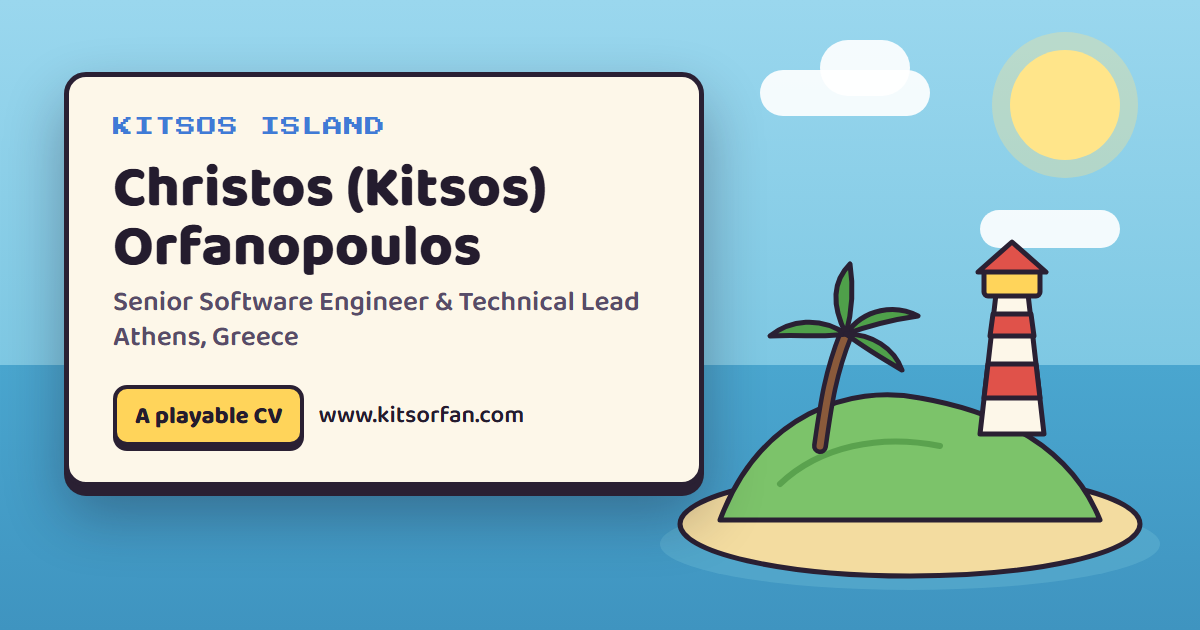
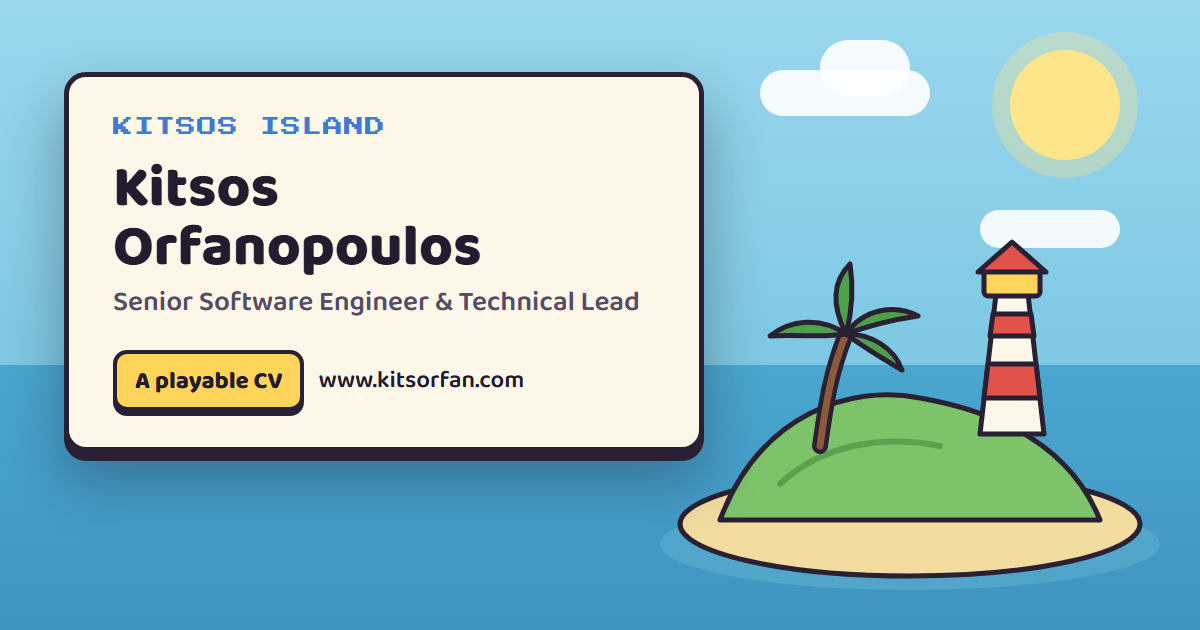
feat(cv): trim the link preview to his name and title

Changed region(s): [[0.0308, 0.5127, 0.5858, 0.8143], [0.0925, 0.2413, 0.4625, 0.3317]]

diff --git a/config/og-image.ts b/config/og-image.ts
@@ -16,7 +16,7 @@ import { mkdtempSync, readFileSync, rmSync, writeFileSync } from 'node:fs'
 import { tmpdir } from 'node:os'
 import { join } from 'node:path'
 import { fileURLToPath, pathToFileURL } from 'node:url'
-import { CV_NAME, PROFILE } from '../src/features/cv/profile.ts'
+import { NAME, PROFILE } from '../src/features/cv/profile.ts'
 import { findBrowser } from './browser.ts'
 
 const ROOT = fileURLToPath(new URL('..', import.meta.url))
@@ -96,8 +96,8 @@ h1 { margin: 22px 0 8px; font-size: 58px; line-height: 1.02; font-weight: 800; }
 ${ISLAND}
 <div class="card">
   <div class="kicker">KITSOS ISLAND</div>
-  <h1>${esc(CV_NAME)}</h1>
-  <p class="title">${esc(PROFILE.title)}<br>${esc(PROFILE.location)}</p>
+  <h1>${esc(NAME)}</h1>
+  <p class="title">${esc(PROFILE.title)}</p>
   <div class="footer">
     <span class="pill">A playable CV</span>
     <span class="url">${esc(PROFILE.websiteLabel)}</span>

diff --git a/src/features/cv/siteHead.test.ts b/src/features/cv/siteHead.test.ts
@@ -5,7 +5,7 @@ import { existsSync, readFileSync } from 'node:fs'
 import { join } from 'node:path'
 import { describe, expect, it } from 'vitest'
 import { buildPersonLd, personLdScript } from './personLd'
-import { CV_NAME, PROFILE } from './profile'
+import { CV_NAME, NAME, PROFILE } from './profile'
 import { RESUME_PDF } from './resume'
 
 /**
@@ -43,8 +43,8 @@ describe('the link preview', () => {
     ).toBe(`${PROFILE.website}/`)
   })
 
-  it('names him the way the CV does', () => {
-    expect(meta('og:image:alt')).toContain(CV_NAME)
+  it('names him the way the picture does', () => {
+    expect(meta('og:image:alt')).toContain(NAME)
   })
 })
 

diff --git a/index.html b/index.html
@@ -32,7 +32,7 @@
     <meta property="og:image:height" content="630" />
     <meta
       property="og:image:alt"
-      content="Christos (Kitsos) Orfanopoulos, Senior Software Engineer and Technical Lead, beside a cartoon island with a lighthouse."
+      content="Kitsos Orfanopoulos, Senior Software Engineer and Technical Lead, beside a cartoon island with a lighthouse."
     />
     <meta name="twitter:card" content="summary_large_image" />
     <link rel="canonical" href="https://www.kitsorfan.com/" />
